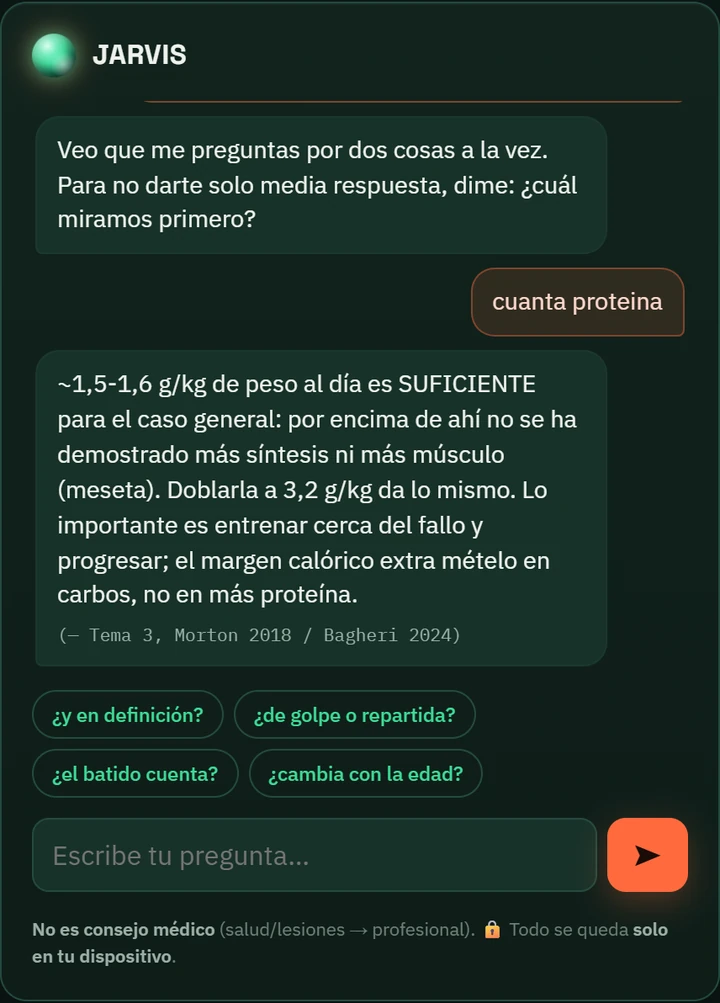
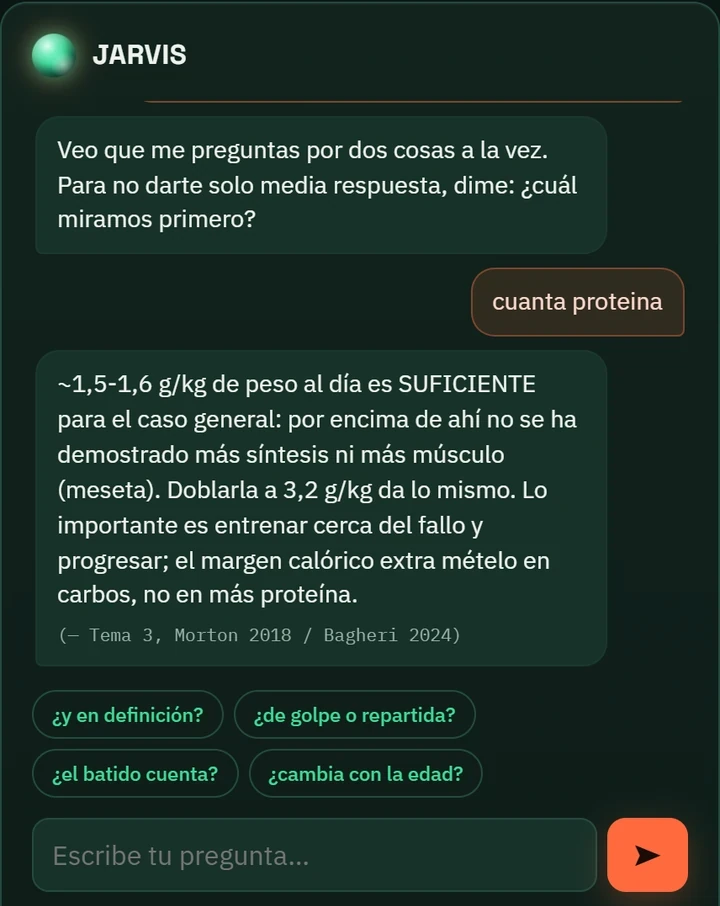
fix(showcase): v0.50.0 real figures, crop forbidden caption, honest WIP list
Adversarial review blockers:
- 176.150 -> 234.976 in all 4 spots (spec-card eyebrow, odometer
  data-count, stat label; body copy de-duplicated to avoid repeating
  the number three times on screen). Source: data/db/manifest.json
  total=234976 and app v0.50.0 (COORDINACION.md, commit c53f956)
- jarvis-chat.webp: cropped the footer band that rasterized the
  banned phrase ('todo se queda solo en tu dispositivo'), which also
  contradicted privacidad.html; 720x1003 -> 720x906, chat + cited
  answer + chips untouched, img height attr updated
- 'Lo que aun no esta': the name-dedupe bullet described work closed
  by c53f956 two days earlier; replaced with the real open items from
  the v0.50.0/v0.51.0 records (multiword search ranking, world DB
  built but unpublished)
- 76 -> 77 test suites (c53f956 added test-dedupe-ean.node.js; gate
  of deployed v0.50.0 ran 77/77), reworded to plain Spanish
- privacidad.html: 'sin llamadas de red propias' -> 'a terceros'
  (showcase does a same-origin fetch for the live version marker)

Changed region(s): [[0.0306, 0.2472, 1.0, 1.0], [0.0306, 0.0309, 0.9472, 0.2472], [0.0, 0.989, 0.0306, 1.0]]

diff --git a/showcase.html b/showcase.html
@@ -387,16 +387,16 @@ html.js .reveal.d2{transition-delay:.16s}
         </details>
       </div>
       <div class="frow__media">
-        <figure class="shot"><img src="assets/shots/jarvis-chat.webp" alt="Chat del motor Jarvis en JV Fitness: ante «¿cuánta proteína?» primero desambigua, y luego da una respuesta que cita la fuente «(← Tema 3, Morton 2018 / Bagheri 2024)», con preguntas de seguimiento encadenadas." width="720" height="1003" loading="lazy"></figure>
+        <figure class="shot"><img src="assets/shots/jarvis-chat.webp" alt="Chat del motor Jarvis en JV Fitness: ante «¿cuánta proteína?» primero desambigua, y luego da una respuesta que cita la fuente «(← Tema 3, Morton 2018 / Bagheri 2024)», con preguntas de seguimiento encadenadas." width="720" height="906" loading="lazy"></figure>
       </div>
     </div>
 
     <!-- tres funciones más (spec cards) -->
     <div class="spec-grid">
       <div class="spec-card reveal">
-        <span class="feat-eyebrow">176.150 alimentos</span>
+        <span class="feat-eyebrow">234.976 alimentos</span>
         <h3>Diario de comida sin cobertura</h3>
-        <p>176.150 fichas de alimentos de España, consultables sin cobertura: en el metro, en el gimnasio, donde sea.</p>
+        <p>La base completa de alimentos de España viaja en el móvil y se consulta sin cobertura: en el metro, en el gimnasio, donde sea.</p>
       </div>
       <div class="spec-card reveal d1">
         <span class="feat-eyebrow">Agua y cafeína</span>
@@ -406,7 +406,7 @@ html.js .reveal.d2{transition-delay:.16s}
       <div class="spec-card reveal d2">
         <span class="feat-eyebrow">Matemática auditada</span>
         <h3>Calorías y macros que puedes creerte</h3>
-        <p>El motor de cálculo pasa una revisión adversarial y <strong>76 suites de tests</strong> antes de cada publicación.</p>
+        <p>El motor de cálculo pasa una revisión adversarial y <strong>77 baterías de pruebas</strong> antes de cada publicación.</p>
       </div>
     </div>
   </div>
@@ -422,7 +422,7 @@ html.js .reveal.d2{transition-delay:.16s}
     </div>
     <div class="stat-grid">
       <div class="stat reveal">
-        <div class="num" data-count="176150" data-format="mil">0</div>
+        <div class="num" data-count="234976" data-format="mil">0</div>
         <div class="lbl">alimentos de España, consultables sin cobertura</div>
       </div>
       <div class="stat reveal d1">
@@ -434,8 +434,8 @@ html.js .reveal.d2{transition-delay:.16s}
         <div class="lbl">fichas del asistente, cada una con su fuente</div>
       </div>
       <div class="stat reveal">
-        <div class="num" data-count="76">0</div>
-        <div class="lbl">suites de tests antes de cada publicación</div>
+        <div class="num" data-count="77">0</div>
+        <div class="lbl">baterías de pruebas antes de cada publicación</div>
       </div>
       <div class="stat live reveal d1">
         <div class="num"><span class="pulse" aria-hidden="true"></span><span data-live-num>···</span></div>
@@ -455,8 +455,8 @@ html.js .reveal.d2{transition-delay:.16s}
       <p>Un producto real tiene obra abierta. Esta es la de hoy.</p>
     </div>
     <ul class="reveal">
-      <li><span><b>Alimentos por código de barras (~244.000):</b> hoy el proceso agrupa por nombre y se queda en 176.150.</span></li>
-      <li><span><b>Base mundial de alimentos:</b> en cola, detrás del rediseño anterior.</span></li>
+      <li><span><b>Buscador de alimentos:</b> con búsquedas de dos palabras («leche entera») el mejor resultado aún puede salir tarde en la lista.</span></li>
+      <li><span><b>Base mundial de alimentos:</b> construida y en verificación; aún sin publicar.</span></li>
       <li><span><b>Asistente:</b> falta que aprenda de lo que no sabe responder y limpiar las sugerencias viejas.</span></li>
     </ul>
   </div>
@@ -497,7 +497,7 @@ html.js .reveal.d2{transition-delay:.16s}
         <span class="stage__node" aria-hidden="true"></span>
         <div class="stage__k">FASE 04</div>
         <h3>Puerta de calidad</h3>
-        <p>76 suites de tests y un escaneo de secretos. Si algo falla, no sale.</p>
+        <p>77 baterías de pruebas y un escaneo de secretos. Si algo falla, no sale.</p>
       </div>
       <div class="stage reveal">
         <span class="stage__node" aria-hidden="true"></span>

diff --git a/privacidad.html b/privacidad.html
@@ -62,8 +62,9 @@ th{color:var(--mute);font-family:var(--mono);font-weight:500;font-size:.72rem;te
   <p>Esta web tiene dos partes con huellas técnicas diferentes, y conviene no confundirlas:</p>
   <ul>
     <li><b>La página de presentación</b> (<code>showcase.html</code>, la que enlaza aquí abajo): no
-    carga ningún recurso de terceros — tipografías autoalojadas, sin llamadas de red propias
-    (<code>connect-src 'self'</code> en su política de seguridad). No necesita banner de cookies
+    carga ningún recurso de terceros — tipografías autoalojadas, sin llamadas de red a terceros
+    (<code>connect-src 'self'</code> en su política de seguridad: solo consulta ficheros de este
+    mismo sitio, p. ej. para pintar la versión en vivo). No necesita banner de cookies
     porque no hay nada que consentir.</li>
     <li><b>La app</b> (<code>index.html</code>, detrás de una contraseña compartida — no es una
     cuenta de usuario, es solo para mantener fuera a curiosos): sí hace las llamadas de red que
